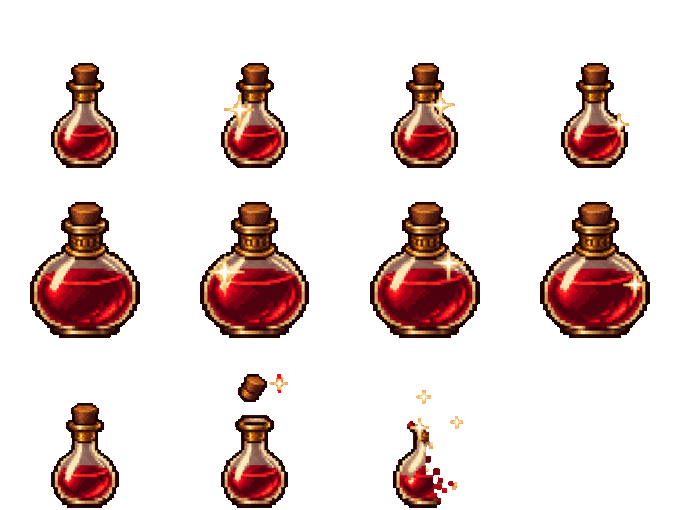
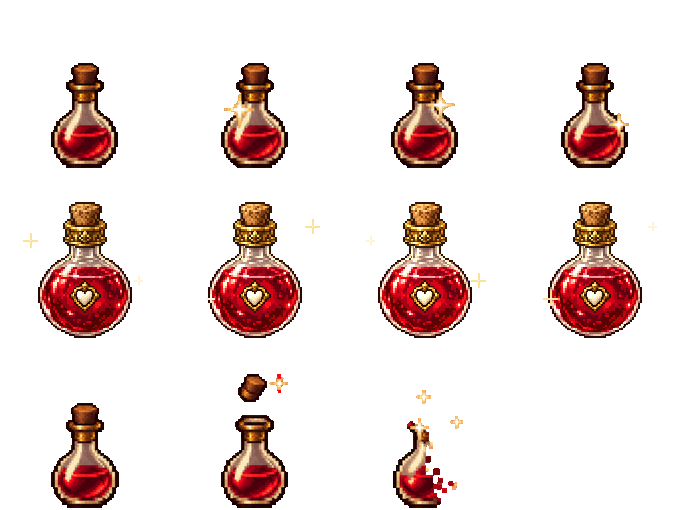
Sandblade 1990: heart life potion, 4 new enemies (brute, archer, spearman, skeleton), 12 longer levels, fix pit softlock and old wall blocks; console shows featured games first; Sandblade in Epic & 3D
Claude-Session: https://claude.ai/code/session_01NC2RHm53inUCVdMCKh9gjY

diff --git a/games/cartridges/sandblade-1990.html b/games/cartridges/sandblade-1990.html
@@ -30,7 +30,7 @@ addEventListener('pointerdown',ac,{passive:true});addEventListener('keydown',ac)
 function tone(f,d,type,vol,slide,delay){if(!sfxOn||!AC)return;try{const t=AC.currentTime+(delay||0),o=AC.createOscillator(),g=AC.createGain();o.type=type||'square';o.frequency.setValueAtTime(f,t);if(slide)o.frequency.exponentialRampToValueAtTime(Math.max(20,f*slide),t+d);g.gain.setValueAtTime(vol||.06,t);g.gain.exponentialRampToValueAtTime(.0001,t+d);o.connect(g);g.connect(AC.destination);o.start(t);o.stop(t+d+.02)}catch(e){}}
 function noise(d,vol,hp){if(!sfxOn||!AC)return;try{const n=Math.floor(AC.sampleRate*d),b=AC.createBuffer(1,n,AC.sampleRate),a=b.getChannelData(0);for(let i=0;i<n;i++)a[i]=(Math.random()*2-1)*(1-i/n);const s=AC.createBufferSource(),g=AC.createGain(),f=AC.createBiquadFilter();f.type='highpass';f.frequency.value=hp||800;g.gain.value=vol||.08;s.buffer=b;s.connect(f);f.connect(g);g.connect(AC.destination);s.start()}catch(e){}}
 const BG={ok:false,img:new Image()};BG.img.onload=()=>{BG.ok=true};BG.img.src='sandblade-bg.jpg?v=b';const spk={};
-const SPR={},HERO={ok:false,CH:190};{let n=0;const T=13;for(const [k,f,cw,an] of [['hero','sandblade-hero.png?v=b',300,110],['sword','sandblade-hero-sword.png?v=b',340,110],['climb','sandblade-hero-climb.png?v=b',300,110],['jump','sandblade-hero-jump.png?v=b',340,110],['ninja','sandblade-ninja.png?v=b',420,200],['guard','sandblade-guard.png?v=b',420,200],['hurt','sandblade-hero-hurt.png?v=b',300,110],['captain','sandblade-captain.png?v=b',420,200],['sorc','sandblade-sorcerer.png?v=b',420,200],['pot','sandblade-potions.png?v=b',170,85],['door','sandblade-doors.png?v=b',190,95],['floor','sandblade-floors.png?v=b',130,65],['spike','sandblade-spikes.png?v=b',116,58]]){const im=new Image();SPR[k]={img:im,CW:cw,AN:an};im.onload=()=>{if(++n>=T)HERO.ok=true};im.src=f}}
+const SPR={},HERO={ok:false,CH:190};{let n=0;const T=17;for(const [k,f,cw,an] of [['hero','sandblade-hero.png?v=b',300,110],['sword','sandblade-hero-sword.png?v=b',340,110],['climb','sandblade-hero-climb.png?v=b',300,110],['jump','sandblade-hero-jump.png?v=b',340,110],['ninja','sandblade-ninja.png?v=b',420,200],['guard','sandblade-guard.png?v=b',420,200],['hurt','sandblade-hero-hurt.png?v=b',300,110],['captain','sandblade-captain.png?v=b',420,200],['sorc','sandblade-sorcerer.png?v=b',420,200],['pot','sandblade-potions.png?v=c',170,85],['door','sandblade-doors.png?v=b',190,95],['floor','sandblade-floors.png?v=b',130,65],['spike','sandblade-spikes.png?v=b',116,58],['brute','sandblade-brute.png?v=c',420,200],['archer','sandblade-archer.png?v=c',420,200],['spear','sandblade-spearman.png?v=c',420,200],['skel','sandblade-skeleton.png?v=c',420,200]]){const im=new Image();SPR[k]={img:im,CW:cw,AN:an};im.onload=()=>{if(++n>=T)HERO.ok=true};im.src=f}}
 function sprShadow(x,y,w){ctx.save();ctx.fillStyle='rgba(0,0,0,.38)';ctx.beginPath();ctx.ellipse(x,y-1,w,6,0,0,TAU);ctx.fill();ctx.restore()}
 const TAU=Math.PI*2,rnd=(a,b)=>a+Math.random()*(b-a),rint=(a,b)=>Math.floor(rnd(a,b+1)),clamp=(v,a,b)=>v<a?a:v>b?b:v,lerp=(a,b,t)=>a+(b-a)*t;
 function rr(x,y,w,h,r){ctx.beginPath();ctx.moveTo(x+r,y);ctx.arcTo(x+w,y,x+w,y+h,r);ctx.arcTo(x+w,y+h,x,y+h,r);ctx.arcTo(x,y+h,x,y,r);ctx.arcTo(x,y,x+w,y,r);ctx.closePath()}
@@ -56,33 +56,42 @@ setInterval(()=>{try{musicTick()}catch(e){}},300);
 let mode='menu',score=0;
 const TW=96,TH=160,RW=10,RH=3,HUDY=510;
 const LEVELS=[
- {n:'THE DUNGEON',rows:["....................................", "........FFFHF.......................", "FPFFFF.FFFFFFFFSFFFFxFFFFFFSFFFFFFFE", ".....#F#............................"]},
+ {n:'THE DUNGEON',rows:["................................................................................", ".......................FFMFF...............FFHFF.....FFHFF...............FFHFF..", "FPFFFFFFFFFFFFFFFFFFFFFxFFFxFFFFFF.FFxFFFFxFFFFFFFFxFFFFFFFFFxFF.FFFxFFFxFFFxFEF", ".................................#F#...........................#F#.............."]},
  {n:'THE FALLING STAIRS',rows:["....................","....................","FPFFFFLLFF..FFFF....","......FFFFFF....FH..","............FFFF..FF","EFFFAFFFFaFFFSFFFxFF"]},
- {n:'THE SULTAN\'S TOWER',rows:["...............................","...............FHaFM...........","FPFFFF.FFFFFLLSFFFFFFAFFFxFFFFE"]},
- {n:'THE ARMORY',rows:["....................................", ".....................FFMFF..........", "FPFFFSFFFxFFF..FFFFFFFFFFxFFSFFFFFFE", "............#FF#...................."]},
- {n:'THE VIZIER\'S HALL',rows:["............................................", "........FFHFF...............................", "FPFFFSFFFFxFF..FFFFFFaFFFFAFFFSFFFFFFFxFFFFE", "............#FF#............................"]}
+ {n:'THE SULTAN\'S TOWER',rows:["...............................","...............FHFFM...........","FPFFFF.FFFFFLLSFFaFFFAFFFxFFFFE",".....#F#...#FF#................"]},
+ {n:'THE ARMORY',rows:["....................................................................................................", ".......................FFHFF.....FFHFF...............FFMFF...............FFHFF.....FFHFF............", "FPFFFFFFFFFFaFFFFAxFFFFxFFFFxFFFFTFFTFFFFFFF.FFFFFFFFFFFFFxFFFFF.FFFFFFFFFFFFFFFFFFFFFFTFFFFFxFFxFEF", "...........................................#F#.................#F#.................................."]},
+ {n:'THE VIZIER\'S HALL',rows:["..............................................................................................................", ".......................FFHFF...............FFHFF.....FFHFF.........................FFHFF.....FFHFF.....FFHFF..", "FPFFFFFFFFFFFF.FFFTFFGFFFFFFFFFFaFFFFAGFFFFFFFFFFFFFNFFFTFFFFFFFFSFFxFFFNFFSFFFFFFFFFFFFNFFFFFFFFNFFFGFFFFFFEF", ".............#F#.............................................................................................."]},
+ {n:'THE CATACOMBS',rows:["..............................................................................................................", ".......................FFHFF...............FFHFF.....FFHFF.........................FFMFF.....FFHFF............", "FPFFFFFFFFFFFFFSSFFFFFFFFFFFFFFKFFFSFFKFFFFFFFFFFFFFFFFFKFFFFFKFFSSFKFFxFFFSFFKFFFFFFFFFFFFFFFFFFFFFFFFFFFKFEF", ".............................................................................................................."]},
+ {n:'THE ARCHER\'S GALLERY',rows:["..............................................................................................................", ".......................FFHFF.....FFHFF.....FFHFF.....FFHFF...............FFHFF.....FFHFF......................", "FPFFFFFFFFFFaFFFFARFFFFTFFFFFFFFFFFRFFTFFFxFFFFRFFFFFFFFFTFFFFFFFSFFFFFFxFFFFFRFFFFRFFFFFFFRFF.FFFFFFFFRFFTFEF", ".............................................................................................#F#.............."]},
+ {n:'THE IRON BRIDGE',rows:["........................................................................................................................", ".............FFHFF.....FFHFF...............FFHFF.....FFHFF.........................FFHFF.........................FFHFF..", "FPFFFFFFFFFFFFFFFFFFFYFFFFFFFFFFYFFSSFFFFFFFFFFFFFFFFYFFFFFFFFFF.FFNFFFFaFFFFATFFFFFFFFFFFFFaFFFFATFFNFFFSFFFFFFFFFFTFEF", "...............................................................#F#......................................................"]},
+ {n:'THE SULTAN\'S GARDEN',rows:["........................................................................................................................", ".............FFHFF.....FFHFF.........................FFHFF.....FFHFF.....FFHFF.....FFHFF................................", "FPFFFFFFFFFFFFFNFFFFFRFFFFFFFFFFFFFSSFRFFFNFFKFFFFFFFFRFFFFFFFFFFGFFFFFFFFFRFFRFFFNFFFFYFFFRFF..FFYFFFFFFSFFGFFFFYFFFFEF", ".............................................................................................#FF#......................."]},
+ {n:'THE BURNING FORGE',rows:["..................................................................................................................................", ".............FFHFF.....FFHFF...............FFHFF.....FFHFF.........................FFHFF.....FFMFF...............FFHFF.....FFHFF..", "FPFFFFFFFFFFFFFFFFKFFFFTFFFTFFFFaFFFFANFFFFFFFFNFFFFFFFFFFFFFFFF.FFFFFFFaFFFFANFFFFFNFFFFFFFYFFKFFFFFFGFFSSFFFFFYFFFFFFFFTFFYFFFEF", "...............................................................#F#................................................................"]},
+ {n:'THE SORCERER\'S SANCTUM',rows:["..................................................................................................................................", ".......................FFHFF.........................FFHFF...............FFHFF.....FFHFF...............FFHFF.....FFHFF............", "FPFFFFFFFFFFFF..FFFFFFFFFFFFFFFYFFFSSFFFFFFFFSSFGFFFFFFYFFYFFFFF.FFFFFFFFRFFFFFFFFFFFFFFFFFFFFFSSFFFFGFFFFFFFFFRFFFFFFFFFFFKFZFFEF", ".............#FF#..............................................#F#................................................................"]},
+ {n:'THE DESERT KING\'S THRONE',rows:["......................................................................................................................................................", ".............FFHFF.....FFHFF.........................FFHFF...............FFMFF.....FFHFF...............FFHFF.....FFHFF.....FFHFF...............FFHFF..", "FPFFFFFFFFFFZFFFRFFFFZFFFFFFFFFFFF.FFKFFFFNFFSSFTFFFYFFFYFFFFFbFFFFBRFFKFFTFFFFFFFFFFFFFGFFFTFFSFFFFFFFZFFZFFFFFFFFFFFFFFFFFFFFFFFFGFFFSSFFFFFFYFZFYEF", ".................................#F#.................................................................................................................."]}
 ];
 const padRows=a=>{const w=Math.max(...a.map(r=>r.length));return a.map(r=>r.padEnd(w,'.'))};
 LEVELS.forEach(l=>l.rows=padRows(l.rows));
 let L,W,H,map,items,guards,gate,loose,debris,P,cam={x:0,y:0},timeLeft=600,lvl=0,kills=0,msg='',msgT=0,t=0,gameOverT=0,deadT=0,wantJump=false,touchOn=false,sparks=[],shake=0,doneT=0;
-const K={};const FL='FSLABCabcHMPxE';
+const K={};const FL='FSLABCabcHMPxENGZYRTK';const KM={N:1,G:2,Z:3,Y:4,R:5,T:6,K:7},LST=[1,1,0,1,0,0,1,0,1,0,0,1],HPK=[2,2,3,3,5,2,3,3];
+const GP=[{r:135,v:195,w:.5,s:.14,d:1},{r:135,v:230,w:.42,s:.14,d:1},{r:140,v:200,w:.5,s:.14,d:1},{r:135,v:195,w:.5,s:.14,d:1},{r:155,v:125,w:.85,s:.24,d:2},{r:135,v:195,w:.5,s:.14,d:1},{r:200,v:170,w:.5,s:.16,d:1},{r:135,v:235,w:.4,s:.14,d:1}];
+function mkG(kd,c,r,n){const hp=HPK[kd]+(n%2)+(lvl>=7?1:0);return{kind:kd,x:c*TW+TW/2,y:(r+1)*TH,face:-1,hp:hp,mx:hp,st:'idle',t:rnd(.3,1),stag:0,parry:0,atk:0,hit:0,alive:true,flash:0,dying:0}}
 function isFloor(c){return FL.includes(c)}
 function tile(c,r){if(c<0||c>=W)return'#';if(r<0||r>=H)return'.';return map[r][c]}
 function loadLevel(i){lvl=i;if(i>savedLvl){savedLvl=i;LS.set(GKEY+'-lvl',String(i))}L=LEVELS[i];H=L.rows.length;W=L.rows[0].length;map=L.rows.map(r=>r.split(''));items=[];guards=[];bolts=[];fx=[];startT=0;startX=0;startY=0;gateO={A:0,B:0,C:0};gate={A:0,B:0,C:0};loose={};debris=[];sparks=[];
  for(let r=0;r<H;r++)for(let c=0;c<W;c++){const ch=map[r][c];
   if(ch==='P'){P=mkP(c*TW+TW/2,(r+1)*TH);startX=c*TW+TW/2;startY=(r+1)*TH;map[r][c]='F'}
-  else if(ch==='x'){guards.push({kind:([[0],[2],[3],[2,1],[1,3]][i]||[0])[guards.length%([[0],[2],[3],[2,1],[1,3]][i]||[0]).length],x:c*TW+TW/2,y:(r+1)*TH,face:-1,hp:2+i+(guards.length%2),mx:2+i,st:'idle',t:rnd(.3,1),stag:0,parry:0,atk:0,hit:0,alive:true,flash:0,dying:0});map[r][c]='F'}
+  else if(ch==='x'||KM[ch]!=null){const XK=[[0],[2],[3],[2,1],[1,3]][i]||[0],kd=ch==='x'?XK[guards.length%XK.length]:KM[ch],g0=mkG(kd,c,r,guards.length);if(ch==='x')g0.hp=g0.mx=2+Math.min(i,3)+(guards.length%2);guards.push(g0);map[r][c]='F'}
   else if(ch==='H'||ch==='M'){items.push({c,r,type:ch,got:false});map[r][c]='F'}}
  msg='LEVEL '+(i+1)+' — '+L.n;msgT=2.4;cam.x=-1;}
 function mkP(x,y){return{x,y,vx:0,vy:0,face:1,st:'idle',ground:true,hp:3,maxHp:3,swing:0,swingHit:false,parry:0,pcd:0,stun:0,inv:0,fall0:y,climbT:0,hk:0,tc:0,hd:1,rt:0,dead:false,sheath:true}}
-function newGame(){timeLeft=600;kills=0;score=0;mode='play';const hp0=3;loadLevel(0);gameOverT=0;deadT=0;doneT=0}
+function newGame(){timeLeft=720;kills=0;score=0;mode='play';const hp0=3;loadLevel(0);gameOverT=0;deadT=0;doneT=0}
 function blocked(nx,y){for(const sy of[y-20,y-110]){for(const ox of[-12,12]){const c=Math.floor((nx+ox)/TW),r=Math.floor(sy/TH),ch=tile(c,r);if(ch==='#')return true;if('ABC'.includes(ch)&&gate[ch]<=0)return true}}return false}
 function dmg(n,kb){if(P.inv>0||P.dead)return;P.hp-=n;P.inv=.8;P.stun=.3;shake=8;P.vx=kb*120;tone(120,.2,'sawtooth',.14);noise(.12,.15,300);if(P.hp<=0)die('SLAIN')}
 function die(w){if(P.dead)return;P.dead=true;P.st='dead';P.vx=0;deadT=0;msg=w;msgT=1.6;tone(90,.7,'sawtooth',.14,-.7);}
 function land(){const drop=(P.y-P.fall0)/TH;P.vy=0;P.ground=true;P.vx*=.3;if(drop>=2.6){die('FELL TO YOUR DEATH');}else if(drop>=1.7){dmg(1,0);msg='OUCH!';msgT=.8}else if(drop>.5)tone(160,.05,'triangle',.08);
  if(!P.dead)P.st='idle'}
 function tryGrab(){const d=P.face,tw=K.up;if(!tw)return false;const c=Math.floor(P.x/TW),tc=c+d;const hy=P.y-140,k=Math.round(hy/TH),off=hy-k*TH;if(off<-55||off>75||k<1)return false;
- if(!isFloor(tile(tc,k-1))||isFloor(tile(c,k-1))||tile(tc,k)==='#')return false;const edge=d>0?tc*TW:(tc+1)*TW;const gap=(edge-P.x)*d;if(gap<-10||gap>95)return false;
+ if(!isFloor(tile(tc,k-1))||isFloor(tile(c,k-1)))return false;const edge=d>0?tc*TW:(tc+1)*TW;const gap=(edge-P.x)*d;if(gap<-10||gap>95)return false;
  P.st='hang';P.x=edge-d*20;P.y=k*TH+145;P.vy=0;P.vx=0;P.hk=k;P.tc=tc;P.hd=d;P.ground=false;tone(260,.05,'triangle',.08);msg='';return true}
 function sheathCheck(){P.sheath=!guards.some(g=>g.alive&&Math.abs(g.y-P.y)<30&&Math.abs(g.x-P.x)<360)}
 function updP(dt){
@@ -131,6 +140,10 @@ function sorcAI(g,dx,ad){
  else if(g.st==='strike'){if(g.t<=0){g.st='idle';g.t=rnd(1.3,2.1)}}
  else{g.st='idle';if(ad<170){const nx=g.x-g.face*90*dt_;if(isFloor(tile(Math.floor((nx-g.face*20)/TW),Math.round(g.y/TH)-1))&&!blocked(nx,g.y)){g.x=nx;g.st='walk'}}if(g.t<=0&&g.st!=='walk'){g.st='wind';g.t=.6}}}
 let dt_=.016;
+function archAI(g,dx,ad){
+ if(g.st==='wind'){if(g.t<=0){g.st='strike';g.t=.3;bolts.push({x:g.x+g.face*50,y:g.y-100,vx:g.face*540,life:1.7,arrow:1});tone(640,.12,'triangle',.07,-1)}}
+ else if(g.st==='strike'){if(g.t<=0){g.st='idle';g.t=rnd(1.0,1.7)}}
+ else{g.st='idle';if(ad<230){const nx=g.x-g.face*110*dt_;if(isFloor(tile(Math.floor((nx-g.face*20)/TW),Math.round(g.y/TH)-1))&&!blocked(nx,g.y)){g.x=nx;g.st='walk'}}if(g.t<=0){g.st='wind';g.t=.6}}}
 function updBolts(dt){for(const b of bolts){b.x+=b.vx*dt;b.life-=dt;
   if(blocked(b.x,b.y+60))b.life=0;
   if(!P.dead&&Math.abs(b.x-P.x)<34&&Math.abs((b.y+40)-(P.y-60))<90){
@@ -138,19 +151,19 @@ function updBolts(dt){for(const b of bolts){b.x+=b.vx*dt;b.life-=dt;
    else if(P.inv<=0){b.life=0;dmg(1,Math.sign(b.vx))}}}
  bolts=bolts.filter(b=>b.life>0)}
 function updGuards(dt){dt_=dt;for(const g of guards){
- if(!g.alive){g.dying-=dt;continue}
+ if(!g.alive){g.dying-=dt;if(g.kind===7&&!g.rose&&g.dying<-1.3){g.rose=true;g.alive=true;g.hp=2;g.mx=2;g.rising=.66;g.st='idle';g.t=.6;kills--;score-=100;tone(150,.4,'sawtooth',.08,2)}continue}if(g.rising>0){g.rising-=dt;continue}
  g.flash-=dt;g.parry-=dt;g.stag-=dt;g.t-=dt;
- const same=!P.dead&&Math.abs(g.y-P.y)<30&&P.ground,dx=P.x-g.x,ad=Math.abs(dx);
+ const same=!P.dead&&Math.abs(g.y-P.y)<30&&P.ground,dx=P.x-g.x,ad=Math.abs(dx),gp=GP[g.kind||0],lv=Math.min(lvl,7);
  const floorAhead=(x)=>isFloor(tile(Math.floor(x/TW),Math.round(g.y/TH)-1));
  if(g.stag>0){continue}
- if(same&&ad<460){g.face=dx>0?1:-1;if(g.kind===3){sorcAI(g,dx,ad);continue}
-  if(g.st==='wind'){if(g.t<=0){g.st='strike';g.t=.14;g.atk=1}}
-  else if(g.st==='strike'){if(g.atk&&ad<135){g.atk=0;if(P.parry>0&&Math.sign(g.x-P.x)===P.face){g.stag=.55;sparks.push({x:g.x-g.face*35,y:g.y-90,t:.25});tone(900,.1,'square',.12);shake=3}else if(P.inv<=0)dmg(1,g.face)}if(g.t<=0){g.st='idle';g.t=Math.max(.35,rnd(.6,1.2)-lvl*.1)}}
+ if(same&&ad<(g.kind===5?640:460)){g.face=dx>0?1:-1;if(g.kind===3){sorcAI(g,dx,ad);continue}if(g.kind===5){archAI(g,dx,ad);continue}
+  if(g.st==='wind'){if(g.t<=0){g.st='strike';g.t=gp.s;g.atk=1}}
+  else if(g.st==='strike'){if(g.atk&&ad<gp.r){g.atk=0;if(P.parry>0&&Math.sign(g.x-P.x)===P.face){g.stag=.55;sparks.push({x:g.x-g.face*35,y:g.y-90,t:.25});tone(900,.1,'square',.12);shake=3}else if(P.inv<=0)dmg(gp.d,g.face)}if(g.t<=0){g.st='idle';g.t=Math.max(.35,rnd(.6,1.2)-lv*.1)}}
   else{
-   if(ad>105&&g.t<=0||ad>150){const nx=g.x+g.face*(195+lvl*18)*dt;if(floorAhead(nx+g.face*20)&&!blocked(nx,g.y))g.x=nx;g.st='walk'}
-   else if(ad<=135){g.st='idle';if(g.t<=0){g.st='wind';g.t=.5-lvl*.04;tone(260,.08,'triangle',.05)}
+   if(ad>gp.r-30&&g.t<=0||ad>gp.r+15){const nx=g.x+g.face*(gp.v+lv*14)*dt;if(floorAhead(nx+g.face*20)&&!blocked(nx,g.y))g.x=nx;g.st='walk'}
+   else if(ad<=gp.r){g.st='idle';if(g.t<=0){g.st='wind';g.t=gp.w-lv*.03;tone(260,.08,'triangle',.05)}
      // parry reaction
-     if(P.swing>.1&&P.swing<.3&&g.parry<=0&&Math.random()<dt*(1.2+lvl*.8)){g.parry=.32;tone(700,.04,'square',.06)}}
+     if(P.swing>.1&&P.swing<.3&&g.parry<=0&&Math.random()<dt*(1.2+lv*.6)){g.parry=.32;tone(700,.04,'square',.06)}}
   }
  }else{ // patrol
   g.st='walk';const nx=g.x+g.face*85*dt;if(!floorAhead(nx+g.face*30)||blocked(nx,g.y)||g.t<-3){g.face*=-1;g.t=1}else g.x=nx}
@@ -165,7 +178,7 @@ function update(dt){t+=dt;if(msgT>0)msgT-=dt;shake*=.9;if(mode==='story'){storyT
  updP(dt);updGuards(dt);updBolts(dt);startT+=dt;for(const g of['A','B','C'])gateO[g]+=((gate[g]>0?1:0)-gateO[g])*Math.min(1,dt*5);fx.forEach(f=>f.t+=dt);fx=fx.filter(f=>f.t<.9);
  for(const it of items)if(!it.got&&!P.dead&&Math.abs(P.x-(it.c*TW+TW/2))<40&&Math.abs(P.y-(it.r+1)*TH)<20){it.got=true;fx.push({x:it.c*TW+TW/2,y:(it.r+1)*TH-2,t:0,big:it.type==='M'});tone(720,.3,'sine',.1,1);if(it.type==='H'){P.hp=Math.min(P.maxHp,P.hp+1);msg='HEALTH RESTORED'}else{P.maxHp=Math.min(5,P.maxHp+1);P.hp=P.maxHp;msg='LIFE FORCE INCREASED'}msgT=1.4;score+=50}
  if(P.dead){deadT+=dt;if(deadT>1.8){const mh=P.maxHp;loadLevel(lvl);P.maxHp=mh;P.hp=mh}}
- if(doneT>0){doneT-=dt;if(doneT<=0){score+=300;if(lvl>=LEVELS.length-1){score+=Math.floor(timeLeft)*2+P.hp*50;saveBest(score);mode='win';gameOverT=0;tone(880,.7,'square',.1)}else{const mh=P.maxHp,hp=P.hp;loadLevel(lvl+1);P.maxHp=mh;P.hp=Math.min(mh,hp+1)}}}
+ if(doneT>0){doneT-=dt;if(doneT<=0){score+=300;if(lvl>=LEVELS.length-1){score+=Math.floor(timeLeft)*2+P.hp*50;saveBest(score);mode='win';gameOverT=0;tone(880,.7,'square',.1)}else{const mh=P.maxHp,hp=P.hp;timeLeft+=100;loadLevel(lvl+1);P.maxHp=mh;P.hp=Math.min(mh,hp+1)}}}
  // camera
  const tx=Math.floor(P.x/(RW*TW))*RW*TW,ty=Math.floor((P.y-60)/(RH*TH))*RH*TH;if(cam.x<0){cam.x=tx;cam.y=ty}else{const k=Math.min(1,dt*9);cam.x+=(tx-cam.x)*k;cam.y+=(ty-cam.y)*k}
 }
@@ -181,7 +194,7 @@ function menuItems(){const a=['START GAME'];if(savedLvl>0)a.push('CONTINUE  -  L
 const MY=484,MSTEP=30;
 function menuAct(i){const it=menuItems()[i];tone(660,.08,'square',.06);if(!it)return;
  if(it==='START GAME'){mode='story';storyT=0}
- else if(it.indexOf('CONTINUE')===0){newGame();loadLevel(savedLvl)}
+ else if(it.indexOf('CONTINUE')===0){newGame();timeLeft+=savedLvl*90;loadLevel(Math.min(savedLvl,LEVELS.length-1))}
  else if(it==='HOW TO PLAY')helpOpen=true;
  else{sfxOn=!sfxOn;LS.set('rwMute',sfxOn?'0':'1');sndLabel();ac()}}
 const STORY=["C:\\SANDBLADE> TYPE STORY.TXT","","THE SULTAN LIES DYING.","","THE GRAND VIZIER HAS SEIZED THE PALACE AND",
@@ -298,11 +311,11 @@ function draw(){ctx.save();ctx.setTransform(cv.width/LW,0,0,cv.height/LH,0,0);ct
  if(HERO.ok&&startT<2.2){const fr=4+Math.min(3,Math.floor(startT*3)),sp=SPR.door;ctx.imageSmoothingEnabled=false;ctx.globalAlpha=Math.min(1,(2.2-startT)*2);ctx.drawImage(sp.img,(fr%4)*190,Math.floor(fr/4)*200,190,200,startX-104,startY-218,209,220);ctx.globalAlpha=1}
  // tiles
  for(let r=Math.max(0,r0-1);r<Math.min(H,r0+RH+1);r++)for(let c=Math.max(0,c0);c<Math.min(W,c0+RW+1);c++){const ch=map[r][c],x=c*TW,y=(r+1)*TH;
-  if(ch==='#'){brick(x,r*TH,TW,TH,'#4f3d2b');continue}
+  if(ch==='#'){const y0=r*TH;ctx.fillStyle='#8f6c43';ctx.fillRect(x,y0,TW,TH);for(let yy=0;yy<TH;yy+=32){const off=((yy/32|0)+c)%2?0:24;for(let xx=-off;xx<TW;xx+=48){const sh=((c*13+(yy/32|0)*7+(xx+off)/48*5)%4);ctx.fillStyle=['#a37c4f','#977048','#8a673f','#b08759'][sh];ctx.fillRect(x+Math.max(0,xx)+1,y0+yy+1,Math.min(46,TW-Math.max(0,xx)-1),30)}}ctx.strokeStyle='#3a2410aa';ctx.lineWidth=2;for(let yy=0;yy<=TH;yy+=32){ctx.beginPath();ctx.moveTo(x,y0+yy);ctx.lineTo(x+TW,y0+yy);ctx.stroke()}const sg=ctx.createLinearGradient(x,0,x+TW,0);sg.addColorStop(0,'rgba(20,8,0,.45)');sg.addColorStop(.35,'rgba(20,8,0,0)');sg.addColorStop(.65,'rgba(20,8,0,0)');sg.addColorStop(1,'rgba(20,8,0,.45)');ctx.fillStyle=sg;ctx.fillRect(x,y0,TW,TH);continue}
   if(!isFloor(ch))continue;
   // floor slab
-  if(ch==='S'&&HERO.ok){const k=c+','+r,near=Math.abs(P.x-(x+TW/2))<TW*1.6&&Math.abs(P.y-y)<30?3:1;spk[k]=(spk[k]==null?1:spk[k])+(near-(spk[k]==null?1:spk[k]))*.25;const sr=(([1,1,0,1,0][lvl])||0)===0?0:1;ctx.imageSmoothingEnabled=false;ctx.drawImage(SPR.spike.img,Math.round(spk[k])*116,sr*100,116,100,x+TW/2-58,y-59,116,100)}
-  else if(HERO.ok){const row=(lvl===1&&r<H-1)?2:[1,1,0,1,0][lvl]||0,lf=!isFloor(tile(c-1,r)),rt=!isFloor(tile(c+1,r));let fi;
+  if(ch==='S'&&HERO.ok){const k=c+','+r,near=Math.abs(P.x-(x+TW/2))<TW*1.6&&Math.abs(P.y-y)<30?3:1;spk[k]=(spk[k]==null?1:spk[k])+(near-(spk[k]==null?1:spk[k]))*.25;const sr=((LST[lvl])||0)===0?0:1;ctx.imageSmoothingEnabled=false;ctx.drawImage(SPR.spike.img,Math.round(spk[k])*116,sr*100,116,100,x+TW/2-58,y-59,116,100)}
+  else if(HERO.ok){const row=(lvl===1&&r<H-1)?2:LST[lvl]||0,lf=!isFloor(tile(c-1,r)),rt=!isFloor(tile(c+1,r));let fi;
    if(ch==='L')fi=10;else if(row===2)fi=lf?8:9;else fi=row*4+(lf?0:rt?3:((c*7+r*3)%5===0?2:1));
    ctx.imageSmoothingEnabled=false;ctx.drawImage(SPR.floor.img,(fi%4)*130,Math.floor(fi/4)*90,130,90,x+TW/2-65,y-2,130,90)}
   else{ctx.fillStyle='#8a7050';ctx.fillRect(x,y,TW,16);ctx.fillStyle='#b39368';ctx.fillRect(x,y,TW,4)}
@@ -314,15 +327,15 @@ function draw(){ctx.save();ctx.setTransform(cv.width/LW,0,0,cv.height/LH,0,0);ct
  if(HERO.ok){for(const it of items)if(!it.got){const x=it.c*TW+TW/2,y=(it.r+1)*TH-2+Math.sin(t*3+it.c)*2;ctx.fillStyle='rgba(255,60,60,.14)';ctx.beginPath();ctx.ellipse(x,y-14,34,26,0,0,TAU);ctx.fill();pot(it.type==='M'?4+Math.floor(t*6)%4:Math.floor(t*6)%4,x,y,it.type==='M'?.6:.62)}
   for(const f of fx){const fr=f.t<.2?9:f.t<.45?10:-1;const al=Math.max(0,1-f.t/.9);if(fr>=0)pot(fr+(f.big?0:0),f.x,f.y-f.t*40,f.big?.6:.62,al);for(let q=0;q<10;q++){const a=q*.628+f.t*3,rd=f.t*70;ctx.fillStyle='rgba(255,'+(90+q*12)+',80,'+al+')';ctx.fillRect(f.x+Math.cos(a)*rd,f.y-40-f.t*60+Math.sin(a)*rd*.6,4,4)}}}
  for(const d of debris){ctx.save();ctx.translate(d.x,d.y);ctx.rotate(d.r);if(HERO.ok){ctx.drawImage(SPR.floor.img,2*130,2*90,130,90,-65,-2,130,90)}ctx.restore()}
- for(const g of guards){const sp=[SPR.guard,SPR.ninja,SPR.captain,SPR.sorc][g.kind||0];let fr;
-  if(!g.alive)fr=g.dying>.55?13:g.dying>.2?14:15;else if(g.stag>0)fr=g.stag>.25?10:11;else if(g.parry>0)fr=8;else if(g.st==='wind')fr=5;else if(g.st==='strike')fr=6;else if(g.st==='walk')fr=Math.floor((t*8+g.x/50))%4;else fr=4;
+ for(const g of guards){const sp=[SPR.guard,SPR.ninja,SPR.captain,SPR.sorc,SPR.brute,SPR.archer,SPR.spear,SPR.skel][g.kind||0];let fr;
+  const ar=g.kind===5;if(!g.alive)fr=g.dying>.55?13:g.dying>.2?14:15;else if(g.rising>0)fr=g.rising>.5?15:g.rising>.33?14:g.rising>.16?13:12;else if(g.stag>0)fr=g.stag>.25?10:11;else if(g.parry>0)fr=8;else if(g.st==='wind')fr=5;else if(g.st==='strike')fr=6;else if(g.st==='walk')fr=Math.floor((t*8+g.x/50))%4;else fr=ar?0:4;
   if(!HERO.ok)continue;
-  const dy=g.alive?0:(fr===13?5:11);sprShadow(g.x,g.y+dy,g.alive?36:(fr===13?40:70));ctx.save();ctx.translate(g.x,g.y+dy);ctx.scale(g.face,1);ctx.imageSmoothingEnabled=false;if(g.flash>0)ctx.globalAlpha=.6;
+  const lie=!g.alive||g.rising>0,dy=!lie?0:(fr===13?5:fr===12?0:11);sprShadow(g.x,g.y+dy,!lie?36:(fr===13?40:70));ctx.save();ctx.translate(g.x,g.y+dy);ctx.scale(g.face*(g.kind===4?1.1:1),g.kind===4?1.1:1);ctx.imageSmoothingEnabled=false;if(g.flash>0)ctx.globalAlpha=.6;
   if(g.alive&&(g.st==='strike'||g.st==='wind')){const pf=g.st==='strike'?5:4,ga=ctx.globalAlpha;ctx.globalAlpha=ga*.35;ctx.drawImage(sp.img,(pf%4)*sp.CW,Math.floor(pf/4)*190,sp.CW,190,-sp.AN-8,-188,sp.CW,190);ctx.globalAlpha=ga}
  if(g.alive&&g.st==='walk'){const ga=ctx.globalAlpha;for(let i=1;i<=2;i++){ctx.globalAlpha=ga*.2/i;ctx.drawImage(sp.img,(fr%4)*sp.CW,Math.floor(fr/4)*190,sp.CW,190,-sp.AN-g.face*0+i*-5*0-i*5,-188,sp.CW,190)}ctx.globalAlpha=ga}
  ctx.drawImage(sp.img,(fr%4)*sp.CW,Math.floor(fr/4)*190,sp.CW,190,-sp.AN,-188,sp.CW,190);ctx.restore();
   if(g.alive){for(let i=0;i<g.mx+(g.hp>g.mx?1:0)&&i<5;i++){ctx.fillStyle=i<g.hp?'#ff4b64':'#3a2030';ctx.fillRect(g.x-24+i*10,g.y-184,8,6)}}}
- for(const b of bolts){const gg=ctx.createRadialGradient(b.x,b.y,2,b.x,b.y,34);gg.addColorStop(0,'rgba(220,255,220,1)');gg.addColorStop(.35,'rgba(80,255,110,.85)');gg.addColorStop(1,'rgba(40,200,80,0)');ctx.fillStyle=gg;ctx.fillRect(b.x-36,b.y-36,72,72);for(let i=1;i<4;i++){ctx.fillStyle='rgba(80,255,110,'+(.25/i)+')';ctx.beginPath();ctx.arc(b.x-b.vx*.012*i,b.y,10-i*2,0,TAU);ctx.fill()}}
+ for(const b of bolts){if(b.arrow){const d=Math.sign(b.vx);ctx.fillStyle='#d8c9a0';ctx.fillRect(b.x-d*30,b.y-1.5,60,3);ctx.fillStyle='#cfd3da';ctx.beginPath();ctx.moveTo(b.x+d*38,b.y);ctx.lineTo(b.x+d*26,b.y-6);ctx.lineTo(b.x+d*26,b.y+6);ctx.fill();ctx.fillStyle='#b33';ctx.fillRect(b.x-d*30,b.y-5,10,3);ctx.fillRect(b.x-d*30,b.y+2,10,3);continue}const gg=ctx.createRadialGradient(b.x,b.y,2,b.x,b.y,34);gg.addColorStop(0,'rgba(220,255,220,1)');gg.addColorStop(.35,'rgba(80,255,110,.85)');gg.addColorStop(1,'rgba(40,200,80,0)');ctx.fillStyle=gg;ctx.fillRect(b.x-36,b.y-36,72,72);for(let i=1;i<4;i++){ctx.fillStyle='rgba(80,255,110,'+(.25/i)+')';ctx.beginPath();ctx.arc(b.x-b.vx*.012*i,b.y,10-i*2,0,TAU);ctx.fill()}}
  const heroFn=()=>{if(P){ctx.globalAlpha=(P.inv>0&&!P.dead&&Math.floor(t*20)%2)?.4:1;
   if(P.st==='climb'){const k=Math.min(1,P.climbT/.45);const edge=P.hd>0?P.tc*TW:(P.tc+1)*TW;const px=edge-P.hd*20+P.hd*(20+16)*k,py=P.hk*TH+145-145*k;figure(px,py,P.hd,'climb',t,{hero:1,k:k,cloth:'#f4f0e6',legs:'#e8e0d0',belt:'#3060d0',dark:'#2a1a0a',sword:false})}
   else figure(P.x,P.y,P.face,P.st,P.rt*1.0+t*0,{hero:1,cloth:'#f4f0e6',legs:'#e8e0d0',belt:'#3060d0',dark:'#2a1a0a',sword:!P.sheath||P.swing>0||P.parry>0,swing:P.swing,parry:P.parry,wind:false});ctx.globalAlpha=1}};

diff --git a/assets/rw-console.js b/assets/rw-console.js
@@ -5,7 +5,7 @@ const ls={get(k,d){try{return localStorage.getItem(k)||d}catch(e){return d}},set
 const CATS=[['new',"WHAT'S NEW"],['all','ALL GAMES'],['epic3d','EPIC & 3D'],['arcade','ARCADE'],['puzzle','PUZZLE'],['shooter','SHOOTER'],['space','SPACE'],['sports','SPORTS'],['survival','SURVIVAL'],['board','BOARD'],['platform','PLATFORM'],['fighting','FIGHTING'],['driving','DRIVING'],['defense','DEFENSE'],['premium','PREMIUM']];
 const SKINS=[['ps4','PS4 BLUE'],['xbox','XBOX GREEN'],['switch','SWITCH LIGHT'],['nebula','NEBULA'],['crimson','CRIMSON']];
 let games=[],cat=0,idx=0,on=false,built=false,actx=null,pad={t:0,k:''},muteScroll=0,abgN=0;
-function readGames(){games=[...document.querySelectorAll('article.card')].map(c=>{const b=c.querySelector('[data-game]');if(!b)return null;const id=b.dataset.game,slug=id.replace('.html','');return{card:c,btn:b,id,slug,title:((c.querySelector('h3')||{}).textContent||slug).trim(),icon:((c.querySelector('.icon')||{}).textContent||'🎮').trim(),desc:((c.querySelector('p')||{}).textContent||'').trim(),tags:((c.querySelector('.tags')||{}).textContent||'').trim(),cats:(c.dataset.categories||'').split(/\s+/),isNew:c.dataset.new==='1',locked:c.classList.contains('premium-locked')}}).filter(Boolean)}
+function readGames(){games=[...document.querySelectorAll('article.card')].map(c=>{const b=c.querySelector('[data-game]');if(!b)return null;const id=b.dataset.game,slug=id.replace('.html','');return{card:c,btn:b,id,slug,title:((c.querySelector('h3')||{}).textContent||slug).trim(),icon:((c.querySelector('.icon')||{}).textContent||'🎮').trim(),desc:((c.querySelector('p')||{}).textContent||'').trim(),tags:((c.querySelector('.tags')||{}).textContent||'').trim(),cats:(c.dataset.categories||'').split(/\s+/),isNew:c.dataset.new==='1',locked:c.classList.contains('premium-locked')}}).filter(Boolean);const FRONT=['sandblade-1990.html','block-rig.html','silent-wire.html','hellbyte-93.html','jungle-gunship.html'];games=games.map((g,i)=>({g,i})).sort((x,y)=>{const a=FRONT.indexOf(x.g.id),b=FRONT.indexOf(y.g.id);return (a<0?99:a)-(b<0?99:b)||x.i-y.i}).map(o=>o.g)}
 function itemsRaw(){const c=CATS[cat][0];if(c==='new')return games.filter(g=>g.isNew);if(c==='all')return games;if(c==='premium')return games.filter(g=>g.cats.includes('premium')||g.locked);return games.filter(g=>g.cats.includes(c))}
 const PADOK=new Set(["air-hockey-arena.html", "neon-rift.html", "alien-siege.html", "astro-breaker.html", "beat-runner.html", "blackjack-royale.html", "block-drop.html", "bomb-blaster.html", "box-bot.html", "box-pusher.html", "bubble-pop.html", "bug-blaster.html", "bullseye-archery.html", "captain-leap.html", "castle-cannon.html", "castle-climb.html", "catapult-crash.html", "centre-court-tennis.html", "checkers-club.html", "color-flood.html", "comet-catcher.html", "connect-four-clash.html", "cyber-maze.html", "dart-master.html", "dungeon-dash.html", "echo-pad.html", "fishing-quest.html", "frog-hop.html", "galactic-golf.html", "galaxy-defender.html", "ghost-patrol.html", "grid-guardians.html", "hellbyte-93.html", "hoops-showdown.html", "hover-bike.html", "jewel-matrix.html", "jungle-gunship.html", "key-quest.html", "laser-arena.html", "lights-out.html", "lonely-universe.html", "marble-spiral.html", "mech-titan.html", "memory-matrix.html", "merge-2048.html", "meteor-dodge.html", "metro-brawler.html", "minefield-86.html", "missile-guard.html", "moon-lander.html", "nebula-wing.html", "neon-clicker.html", "neon-connect.html", "neon-ludo-rally.html", "neon-pinball.html", "neon-pod-rush.html", "neon-ranger.html", "neon-snake.html", "neon-snakes-ladders.html", "neon-sudoku.html", "neon-survivors.html", "apex-rally.html", "neon-whack.html", "ninja-tower.html", "number-slide.html", "paddle-clash.html", "pearl-diver.html", "pellet-chase.html", "penalty-keeper.html", "pipe-panic.html", "pixel-chess.html", "pixel-golf.html", "pixel-racer.html", "pixel-solitaire.html", "raptor-run.html", "reactor-core.html", "retro-pong.html", "reversi-reborn.html", "ring-king.html", "river-escape.html", "road-blaster-99.html", "robot-runner.html", "rock-blaster.html", "sandblade-1990.html", "shadow-duel.html", "sky-flapper.html", "sky-hop.html", "sky-hunter.html", "sky-raid-92.html", "slice-frenzy.html", "snooker-club.html", "space-courier.html", "space-dock.html", "spider-stack.html", "star-miner.html", "strike-zone-bowling.html", "sub-hunter.html", "tank-duel.html", "tower-stack.html", "turbo-table-tennis.html"]);
 let kmIn=false;try{kmIn=sessionStorage.getItem('rw_km')==='1'}catch(e){}

diff --git a/index.html b/index.html
@@ -2098,7 +2098,7 @@ html[data-vault="rainbow"] .hero h1,html[data-vault="rainbow"] .section-title{an
 <p>Behind-the-paddle 3D table tennis. Your swing decides placement and pace — first to eleven, win by two.</p>
 <div class="premium-requirement" id="pingpongGateCardStatus">🔒 PREMIUM REWARD — <b>1,000 CHALLENGE TOKENS + 8 TROPHIES</b></div>
 <button class="play premium-locked-btn" data-game="turbo-table-tennis.html" id="pingpongPlayBtn">🔒 VIEW UNLOCK REQUIREMENTS</button></article>
-<article class="card premium-card premium-locked" data-new="1" data-categories="platform premium touch mobile" data-premium-game="sandblade-1990.html"><div class="icon">🗡</div><h3>SANDBLADE 1990</h3>
+<article class="card premium-card premium-locked" data-new="1" data-categories="epic3d platform premium touch mobile" data-premium-game="sandblade-1990.html"><div class="icon">🗡</div><h3>SANDBLADE 1990</h3>
 <div class="tags">PREMIUM • PLATFORM • CINEMATIC ADVENTURE</div><div class="compat-tags" aria-label="Device compatibility"><span class="compat-badge compat-touch">TOUCH</span><span class="compat-badge compat-mobile">MOBILE</span></div>
 <p>A tribute to the classic cinematic platformers: run, leap, grab ledges, dodge spikes and loose floors and duel palace guards against the clock.</p>
 <div class="premium-requirement" id="sandbladeGateCardStatus">🔒 PREMIUM REWARD — <b>1,400 CHALLENGE TOKENS + 10 TROPHIES</b></div>
